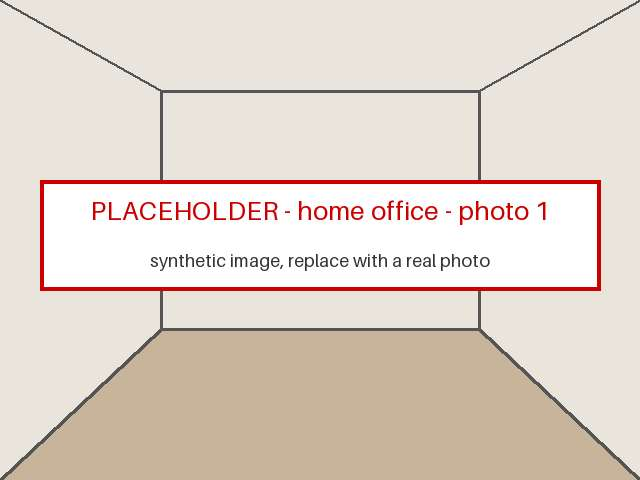
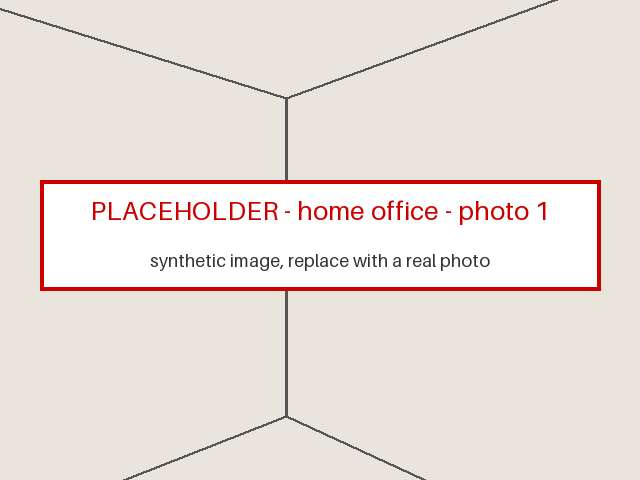
test(F-10): draw fixture photo-1 from the case's camera_pose.json
The placeholder photo-1 was a generic straight-on room that no fixture
pose could line up with. It is now the room's edges projected from
camera_pose.json, so the camera-match wireframe can be checked against it.

diff --git a/fixtures/placeholder_photos.py b/fixtures/placeholder_photos.py
@@ -1,19 +1,62 @@
-"""Regenerate the synthetic placeholder photos: `uv run --no-project --with pillow fixtures/placeholder_photos.py`."""
+"""Regenerate the synthetic placeholder photos: `uv run --no-project --with pillow fixtures/placeholder_photos.py`.
 
+photo-1 is the room's edges as its `camera_pose.json` sees them, so the camera matching UI can be checked against it.
+"""
+
+import json
+import math
 from pathlib import Path
 
 from PIL import Image, ImageDraw, ImageFont
 
 PHOTOS = {"small-bedroom": 2, "home-office": 1, "living-room": 2}
+NEAR = 0.05  # m: the part of an edge closer to the camera's plane than this is cut off
+
+
+def rotate(q: list[float], v: list[float]) -> list[float]:
+    """v turned by the unit quaternion q (x, y, z, w)."""
+    x, y, z, w = q
+    tx, ty, tz = 2 * (y * v[2] - z * v[1]), 2 * (z * v[0] - x * v[2]), 2 * (x * v[1] - y * v[0])
+    return [v[0] + w * tx + y * tz - z * ty, v[1] + w * ty + z * tx - x * tz, v[2] + w * tz + x * ty - y * tx]
+
+
+def room_edges(case: Path) -> list[tuple[tuple[float, float], tuple[float, float]]]:
+    """The room's 12 edges in pixels, as the case's camera (three.js convention, room (x, y, z) is (x, z, -y)) sees them."""
+    pose, d = json.loads((case / "camera_pose.json").read_text()), json.loads((case / "room_spec.json").read_text())["dimensions"]
+    q = [-pose["quaternion"][0], -pose["quaternion"][1], -pose["quaternion"][2], pose["quaternion"][3]]
+    f = pose["image_height"] / 2 / math.tan(math.radians(pose["fov"]) / 2)
+    floor = [(0, 0), (d["width"], 0), (d["width"], d["length"]), (0, d["length"])]
+
+    def local(i: int, z: float) -> list[float]:  # in the camera's frame, which looks down -z
+        x, y = floor[i % 4]
+        return rotate(q, [x - pose["position"][0], z - pose["position"][1], -y - pose["position"][2]])
+
+    def pixel(p: list[float]) -> tuple[float, float]:
+        return pose["image_width"] / 2 + f * p[0] / -p[2], pose["image_height"] / 2 - f * p[1] / -p[2]
+
+    def cut(p: list[float], q: list[float]) -> list[float]:  # p moved along the edge to the near plane, if behind it
+        t = (p[2] + NEAR) / (p[2] - q[2]) if p[2] > -NEAR else 0
+        return [a + t * (b - a) for a, b in zip(p, q, strict=True)]
+
+    edges = [
+        e
+        for i in range(4)
+        for e in ((local(i, 0), local(i + 1, 0)), (local(i, d["height"]), local(i + 1, d["height"])), (local(i, 0), local(i, d["height"])))
+    ]
+    return [(pixel(cut(a, b)), pixel(cut(b, a))) for a, b in edges if min(a[2], b[2]) <= -NEAR]
 
 
 def photo(path: Path, title: str, n: int) -> None:
     img = Image.new("RGB", (640, 480), "#e9e4dc")
     d = ImageDraw.Draw(img)
-    d.polygon([(0, 480), (160, 330), (480, 330), (640, 480)], fill="#c8b49a")  # floor
-    d.rectangle([160, 90, 480, 330], outline="#555", width=3)  # back wall
-    for a, b in [((0, 0), (160, 90)), ((640, 0), (480, 90)), ((0, 480), (160, 330)), ((640, 480), (480, 330))]:
-        d.line([a, b], fill="#555", width=3)
+    if n == 1:
+        for a, b in room_edges(path.parent):
+            d.line([a, b], fill="#555", width=3)
+    else:
+        d.polygon([(0, 480), (160, 330), (480, 330), (640, 480)], fill="#c8b49a")  # floor
+        d.rectangle([160, 90, 480, 330], outline="#555", width=3)  # back wall
+        for a, b in [((0, 0), (160, 90)), ((640, 0), (480, 90)), ((0, 480), (160, 330)), ((640, 480), (480, 330))]:
+            d.line([a, b], fill="#555", width=3)
     d.rectangle([40, 180, 600, 290], fill="#ffffffdd", outline="#c00", width=4)
     d.text((320, 210), f"PLACEHOLDER - {title} - photo {n}", fill="#c00", font=ImageFont.load_default(size=26), anchor="mm")
     d.text((320, 260), "synthetic image, replace with a real photo", fill="#333", font=ImageFont.load_default(size=18), anchor="mm")

diff --git a/fixtures/README.md b/fixtures/README.md
@@ -27,4 +27,4 @@ Sample data for frontend mocks, backend unit tests, the stub graph and the eval 
 
 ## Photos are placeholders
 
-There are no real room photos yet. Each `photo-*.jpg` is a 640 x 480 synthetic image (an empty room drawn with Pillow and labeled PLACEHOLDER), so detection, depth and camera matching produce nothing meaningful on them. `placeholder_photos.py` regenerates them (`uv run --no-project --with pillow fixtures/placeholder_photos.py`); the JSON files are hand-maintained and are the source of truth. Replace the photos with real photos of matching rooms (same file names, max ~300 KB each), then update `room_spec.json` and `camera_pose.json` (`image_width`, `image_height`, the pose) to match.
+There are no real room photos yet. Each `photo-*.jpg` is a 640 x 480 synthetic image (an empty room drawn with Pillow and labeled PLACEHOLDER), so detection, depth and camera matching produce nothing meaningful on them. `photo-1.jpg` draws the room's edges as `camera_pose.json` sees them, so the camera matching UI can check its wireframe against it; it shows fewer than the 4 corners the solver needs. `placeholder_photos.py` regenerates them (`uv run --no-project --with pillow fixtures/placeholder_photos.py`); the JSON files are hand-maintained and are the source of truth. Replace the photos with real photos of matching rooms (same file names, max ~300 KB each), then update `room_spec.json` and `camera_pose.json` (`image_width`, `image_height`, the pose) to match.
